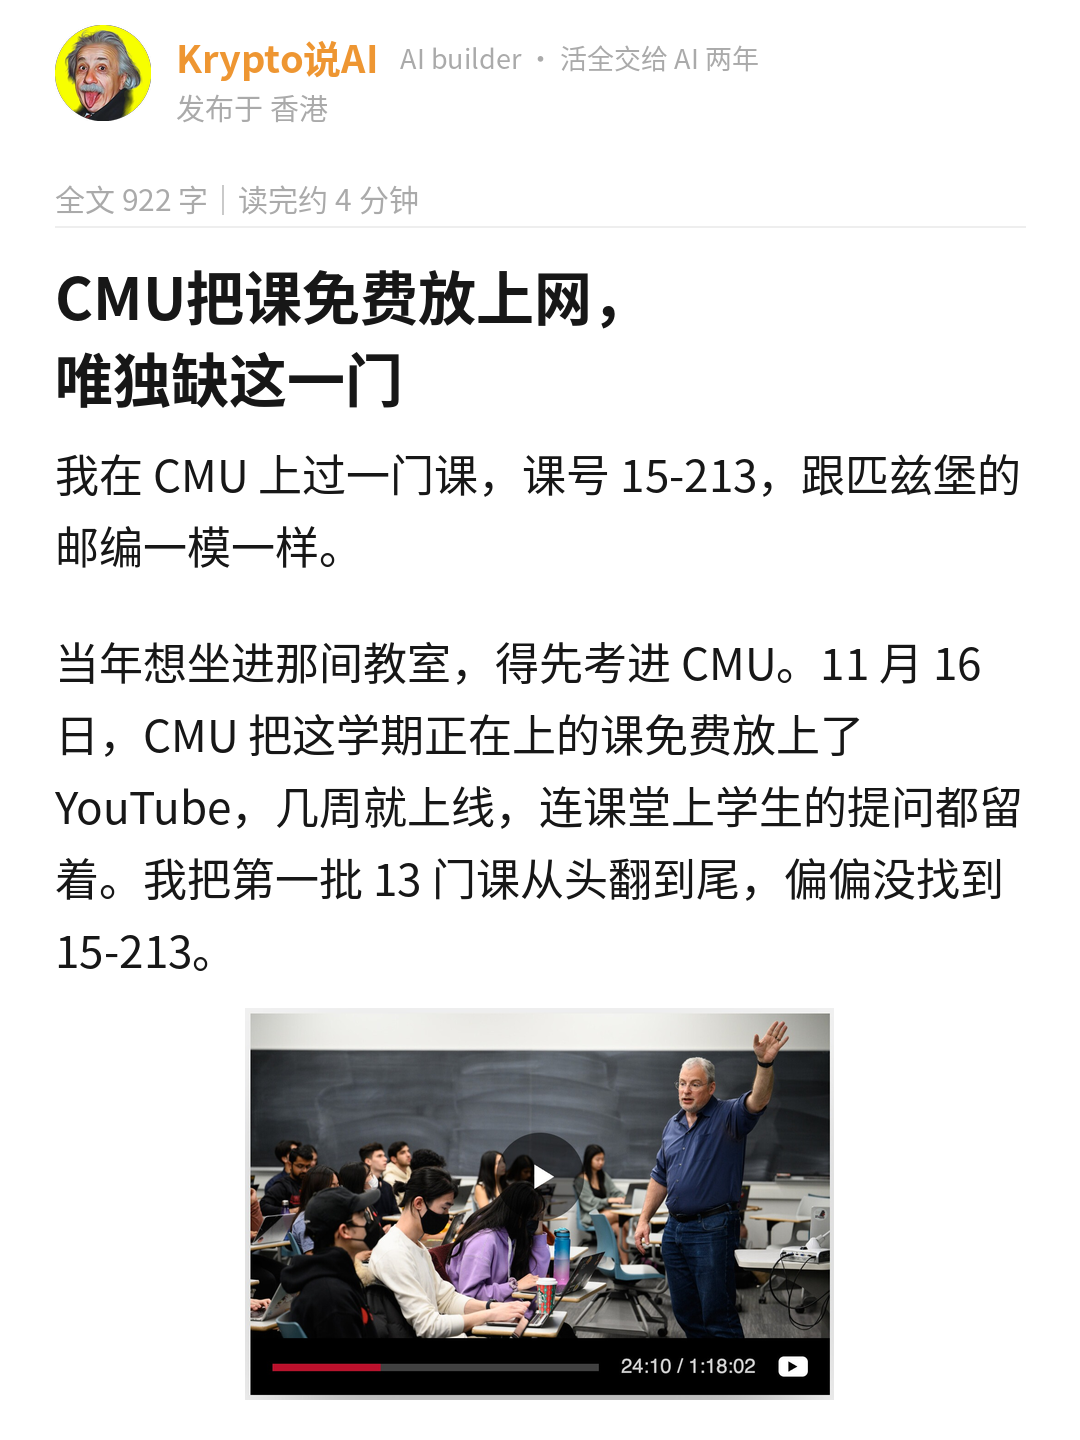
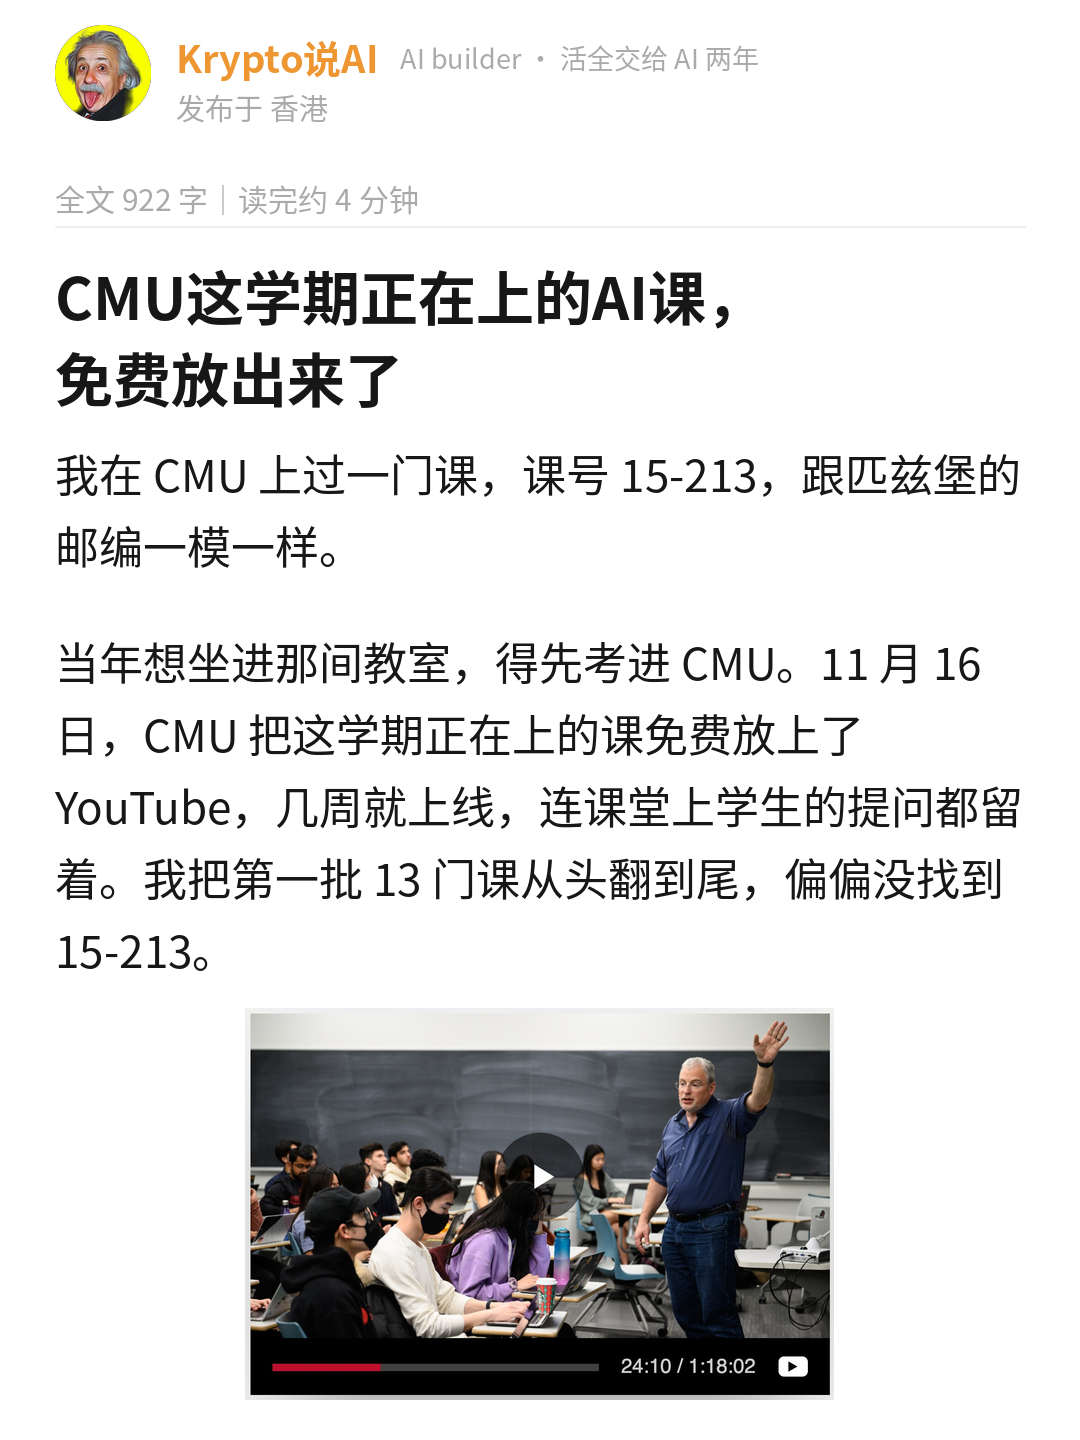
CMU CS Learn 稿：标题改「CMU这学期正在上的AI课，免费放出来了」
Claude-Session: https://claude.ai/code/session_01NaeRTdLFAkf1CdSzGPdtzn

Changed region(s): [[0.0306, 0.1875, 0.4583, 0.2812], [0.4889, 0.1875, 0.6722, 0.25]]

diff --git a/CLAUDE.md b/CLAUDE.md
@@ -3,7 +3,7 @@
 这个仓库是小红书账号 **Krypto说AI** 的工作区，也是它的记忆。在这里做的每一篇稿子，先读本页，再读 `账号/档案.md`、`账号/经历库.md` 和 `账号/爆文方法论.md`（10-14 起，选题 / 标题 / 首图 / 原文跟发的发前清单，交付时逐条写过没过）。每次用户说了新的经历、新的观点、新的规则，写回这两份文件并更新本页摘要，不要只留在对话里。
 
 ## 摘要
-- **11-18 CMU CS Learn 稿（meme-v2，观察，value 信息 + 行动，stance_line 无，`发布/2026-11-18_cmu-cs-learn/meme-v2版/`，11 页 + 名片卡，待用户看）**：素材是 CMU 官网 11-16 新闻稿 + cs.cmu.edu/learn 课程页（存 `编辑用/source.md`、`imgs/`）。先问走了，用户答：15-213 是 CMU 入门也是王牌课，课号跟学校邮编一致、一门课代表一座城市；推荐 15-213 和 AI Agents；「这是 AI 时代公开课的新形式」（观点库 #36）；价值 / 立场线 / 代价没答，默认信息 + 行动、无、无。**15-213 不在 CS Learn 第一批 13 门里**，稿里写成「我最想等的、这一批还没有」，先推教材《深入理解计算机系统》。起法是反常事实（课号 = 邮编 15213），四条：AI 剪辑把录像变公开课（ScottyLabs，脸打码、提问变文字、几周上线，Compeau MBA 课上提的点子）/ 13 门课表（陈天奇贾志豪机器学习系统）/ 我先看 AI Agents（Neubig 是 OpenHands 背后的人）/ 15-213 + 后续课件和 AI 辅导 → 判断段（以前公开课课上完多年才放，现在几周）→ 「你」段（收藏夹里公开课只看第一集）→ 问读者先看哪一门 + 「想要课程链接的评论区说一声」（用户定正文不放链接）。图：首图是官网 YouTube 课堂示意图，自绘 zip / flow / schedule / sys / oldnew / pick，官网图 campus、两张讲师卡、课件示意，每页有图；read_time on、3 处荧光笔、一处括号吐槽（15-213 实验作业出了名难熬）。**用户 11-18 退开头「太平了，没有一点吸引力」，补充「15213是我上过的课」（经历库 #44）** → 开头改成「我在 CMU 上过一门课，课号 15-213，跟学校的邮编一模一样」+「当年想坐进那间教室得先考进 CMU……名单从头翻到尾，偏偏没找到 15-213」，第四条改「我上过的 15-213」，删掉没核实的「实验作业出了名难熬」；标题 / headline 跟着改「CMU把课免费放上网，唯独缺这一门」（16 字），备选「CMU免费公开课：这学期的课几周后就能看」「强烈推荐CMU这批免费AI课。」，改前存 `draft_v1_开头太平.md`。**用户再退「节奏太慢，重点成了上线了一个网站」，要突出「第一个这么做的学校」并把课程提前** → 没写「第一个」（官方没这么说、MIT / 斯坦福早有公开课、「第一」是极限词），改成第 2 页先讲「以前公开课隔一两年才放，CMU 放的是正在上的课」，课表紧跟在第 2 页，顺序改成课表 → 我先看 AI Agents → 为什么能这么快（AI 剪辑）→ 15-213 → 后续，删 oldnew 卡，10 页正文 + 名片卡，改前存 `draft_v2_节奏慢.md`。注意：账号评论权限不恢复，评论区要链接得用户自己回复
+- **11-18 CMU CS Learn 稿（meme-v2，观察，value 信息 + 行动，stance_line 无，`发布/2026-11-18_cmu-cs-learn/meme-v2版/`，11 页 + 名片卡，待用户看）**：素材是 CMU 官网 11-16 新闻稿 + cs.cmu.edu/learn 课程页（存 `编辑用/source.md`、`imgs/`）。先问走了，用户答：15-213 是 CMU 入门也是王牌课，课号跟学校邮编一致、一门课代表一座城市；推荐 15-213 和 AI Agents；「这是 AI 时代公开课的新形式」（观点库 #36）；价值 / 立场线 / 代价没答，默认信息 + 行动、无、无。**15-213 不在 CS Learn 第一批 13 门里**，稿里写成「我最想等的、这一批还没有」，先推教材《深入理解计算机系统》。起法是反常事实（课号 = 邮编 15213），四条：AI 剪辑把录像变公开课（ScottyLabs，脸打码、提问变文字、几周上线，Compeau MBA 课上提的点子）/ 13 门课表（陈天奇贾志豪机器学习系统）/ 我先看 AI Agents（Neubig 是 OpenHands 背后的人）/ 15-213 + 后续课件和 AI 辅导 → 判断段（以前公开课课上完多年才放，现在几周）→ 「你」段（收藏夹里公开课只看第一集）→ 问读者先看哪一门 + 「想要课程链接的评论区说一声」（用户定正文不放链接）。图：首图是官网 YouTube 课堂示意图，自绘 zip / flow / schedule / sys / oldnew / pick，官网图 campus、两张讲师卡、课件示意，每页有图；read_time on、3 处荧光笔、一处括号吐槽（15-213 实验作业出了名难熬）。**用户 11-18 退开头「太平了，没有一点吸引力」，补充「15213是我上过的课」（经历库 #44）** → 开头改成「我在 CMU 上过一门课，课号 15-213，跟学校的邮编一模一样」+「当年想坐进那间教室得先考进 CMU……名单从头翻到尾，偏偏没找到 15-213」，第四条改「我上过的 15-213」，删掉没核实的「实验作业出了名难熬」；标题 / headline 跟着改「CMU把课免费放上网，唯独缺这一门」（16 字），用户再定「CMU这学期正在上的AI课，免费放出来了」（20 字），备选「CMU免费公开课：这学期的课几周后就能看」「强烈推荐CMU这批免费AI课。」，改前存 `draft_v1_开头太平.md`。**用户再退「节奏太慢，重点成了上线了一个网站」，要突出「第一个这么做的学校」并把课程提前** → 没写「第一个」（官方没这么说、MIT / 斯坦福早有公开课、「第一」是极限词），改成第 2 页先讲「以前公开课隔一两年才放，CMU 放的是正在上的课」，课表紧跟在第 2 页，顺序改成课表 → 我先看 AI Agents → 为什么能这么快（AI 剪辑）→ 15-213 → 后续，删 oldnew 卡，10 页正文 + 名片卡，改前存 `draft_v2_节奏慢.md`。注意：账号评论权限不恢复，评论区要链接得用户自己回复
 - **11-18 工程师思维模型 10 张卡中文版（`发布/2026-11-18_mental-models/`，待用户看）**：用户发来 10 张英文信息图（Mental Models for Engineering 系列前 10 张：第一性原理 / 拆解 / 系统思维 / 约束 / 取舍 / 反馈回路 / 瓶颈 / 数量级估算 / 失效分析 / 迭代），要中文版 + 左上角账号头像和名字 + 三个标题、不要正文。做法：照片元素从原图裁（`编辑用/crop.py` → `crops/`），版面用 HTML 重排成 1080×1440（`gen.py` + `shot.js`），顶栏头像 + Krypto说AI + 页码，标题中文大字 + 英文小字，问句副题，intro 一处品牌黄荧光笔，底部黑底「一句话记住」；文字按 meme-v2 用词口径重写（双字词、大白话，「不是 X 是 Y」改掉），图表（帕累托、高度响应、抓力）用 SVG 重画，第 1 张补了一组「类比思维 vs 第一性原理」对照。标题「工程师的10个思维模型，建议收藏」，备选「用AI干活前，先学会这10个思维模型」「第一性原理之外，还有这9个思维模型」。原图出处用户没给，发布时建议注明
 - **11-17 五条写进 meme-v2 / render_meme（用户定「五条都要」，学 `对标/邓下班/拆解.md`）**：① `read_time: on` 首页作者块下一行「全文 N 字｜读完约 M 分钟」+ 细线；② 正文 `==…==` 品牌黄荧光笔（render_meme 原版以前把 `==` 删了，现在画在字下半截，每页最多 3 处，出图报每页平均）；③ hero 先找说出论点的图 + 讲者小窗，新脚本 `skills/meme-xhs/scripts/hero_strip.py`，人脸排第二；④ 40 分钟以上长访谈 / 演讲第 2 页一个问题 + 内容目录，篇幅放开到 18 页；⑤ writing_guide 加括号吐槽（一篇两三处）和引研究写全（作者期刊年份样本 + 大白话）；check.py `genre: 研究` 时锚点密度 ⚠ 降提示。改在 meme-v2 SKILL 步骤 2 / 3 / 6、writing_guide §1 §4、changelog、meme-xhs cover_guide 11-17 节和 SKILL 顶部一行。Working Hard 稿当试点：开 read_time（1459 字 / 5 分钟）、8 处荧光笔、一句括号吐槽（大赛前三周请假去度假大概要被约谈），14 页每页有图，改前存 `draft_v1_无荧光笔.md`
 - **11-17 对标 邓下班 + 硅谷大脑第二批（`对标/邓下班/拆解.md`、`对标/硅谷大脑成长计划/拆解.md` 第五节，用户「比较喜欢的博主」，待用户定，没改 skill）**：邓下班《剑桥老师：AI让大多数人变平庸。如何避免AI脑腐？》（Cranmer 55 分钟演讲，22 页 7286 字，2684 赞 2679 藏 145 评）：首页顶部「全文7286字｜阅读需24分钟」、三行标题（身份 + 结论 + 读者怎么办）、首图是说出论点的那张幻灯片 + 讲者小窗、正文黄色荧光笔标关键数和结论、每个证据「黄底小标题 → 原幻灯片 → 研究写全（作者期刊年份样本）→ 大白话」、作者在场靠括号吐槽不靠经历。硅谷大脑 Joe Hudson（106 / 116）和 Dan Koe（455 / 683）：身份标签代替名字（亿万富翁教练、一人公司教父）、第 2 页抛问题 + 目录、全是原片截帧。建议五条：首页分量提示、品牌黄荧光笔（render_meme 原版认 `==…==`）、首图用论点图 + 讲者小窗、长访谈第 2 页问题 + 目录、括号吐槽当轻量的作者在场；研究证据稿 check 锚点密度降提示。不学宋体、极限词、无「我」。Cranmer 演讲可以自己找原片做一篇

diff --git a/发布/2026-11-18_cmu-cs-learn/meme-v2版/编辑用/draft.md b/发布/2026-11-18_cmu-cs-learn/meme-v2版/编辑用/draft.md
@@ -1,5 +1,5 @@
 ---
-title: CMU把课免费放上网，唯独缺这一门
+title: CMU这学期正在上的AI课，免费放出来了
 mode: 观察
 value: 信息 + 行动
 goal: 涨粉
@@ -10,7 +10,7 @@ reader: 收藏夹里躺着好几门名校公开课、每门都只看了第一集
 cost: 无（用户这篇没答代价）
 keyword: CMU
 keywords: CMU, 卡内基梅隆, 公开课, AI Agents, 计算机系统, 15-213, CS Learn
-headline: CMU把课免费放上网，|唯独缺这一门
+headline: CMU这学期正在上的AI课，|免费放出来了
 hero: imgs/hero.jpg
 hero_after: 2
 hero_max: 520
